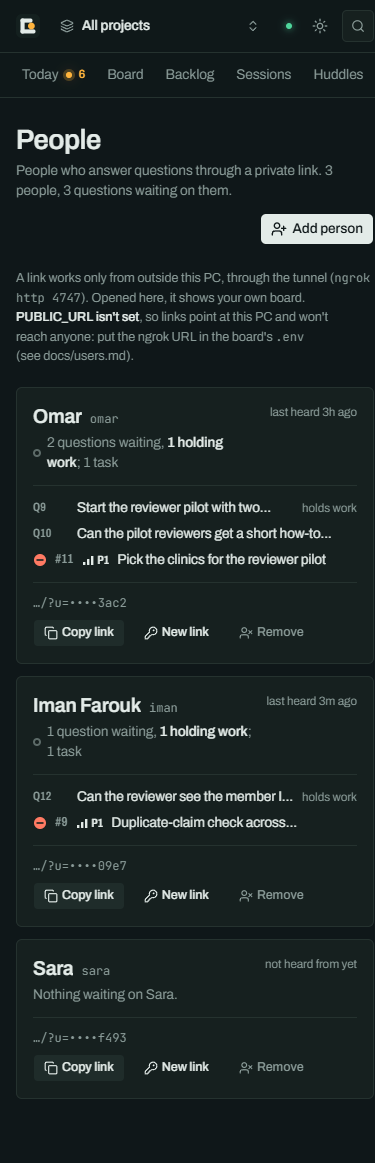
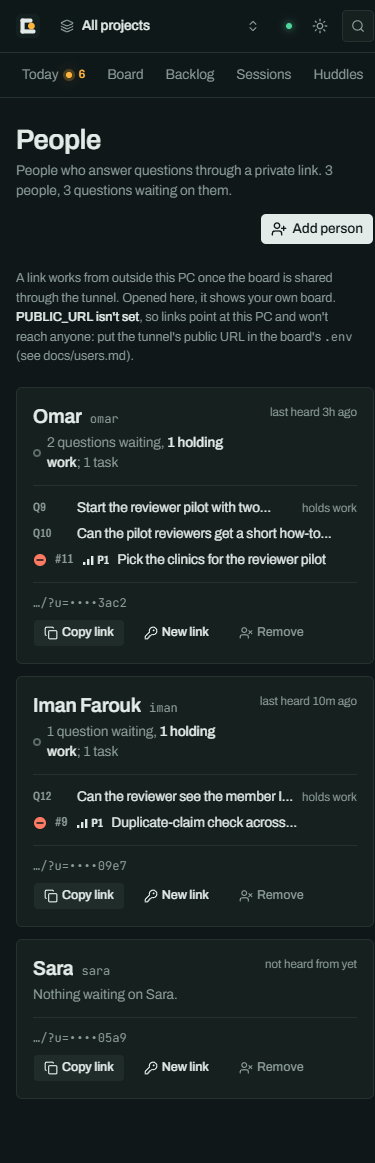
fix(people): tunnel copy is tool-neutral; don't name ngrok (#304 review)
The tunnel may be Cloudflare Tunnel. The link already builds from PUBLIC_URL
when set, else the page origin. Shots retaken.

Claude-Session: https://claude.ai/code/session_01VedgXVv8qMF6m9X8gs9A6U

diff --git a/web/src/views/People.tsx b/web/src/views/People.tsx
@@ -71,9 +71,9 @@ function TunnelNote({ publicUrl, loaded }: { publicUrl: string | null; loaded: b
   if (!loaded) return null
   return (
     <p className="mb-5 max-w-[80ch] text-[13px] text-muted-foreground text-pretty">
-      A link works only from outside this PC, through the tunnel (<code className="font-mono text-xs">ngrok http 4747</code>). Opened here, it shows your own board.
+      A link works from outside this PC once the board is shared through the tunnel. Opened here, it shows your own board.
       {publicUrl ? <> Links point at <span className="font-mono text-xs text-foreground">{publicUrl}</span>.</>
-        : <> <span className="font-medium text-foreground">PUBLIC_URL isn't set</span>, so links point at this PC and won't reach anyone: put the ngrok URL in the board's <code className="font-mono text-xs">.env</code> (see docs/users.md).</>}
+        : <> <span className="font-medium text-foreground">PUBLIC_URL isn't set</span>, so links point at this PC and won't reach anyone: put the tunnel's public URL in the board's <code className="font-mono text-xs">.env</code> (see docs/users.md).</>}
     </p>
   )
 }
